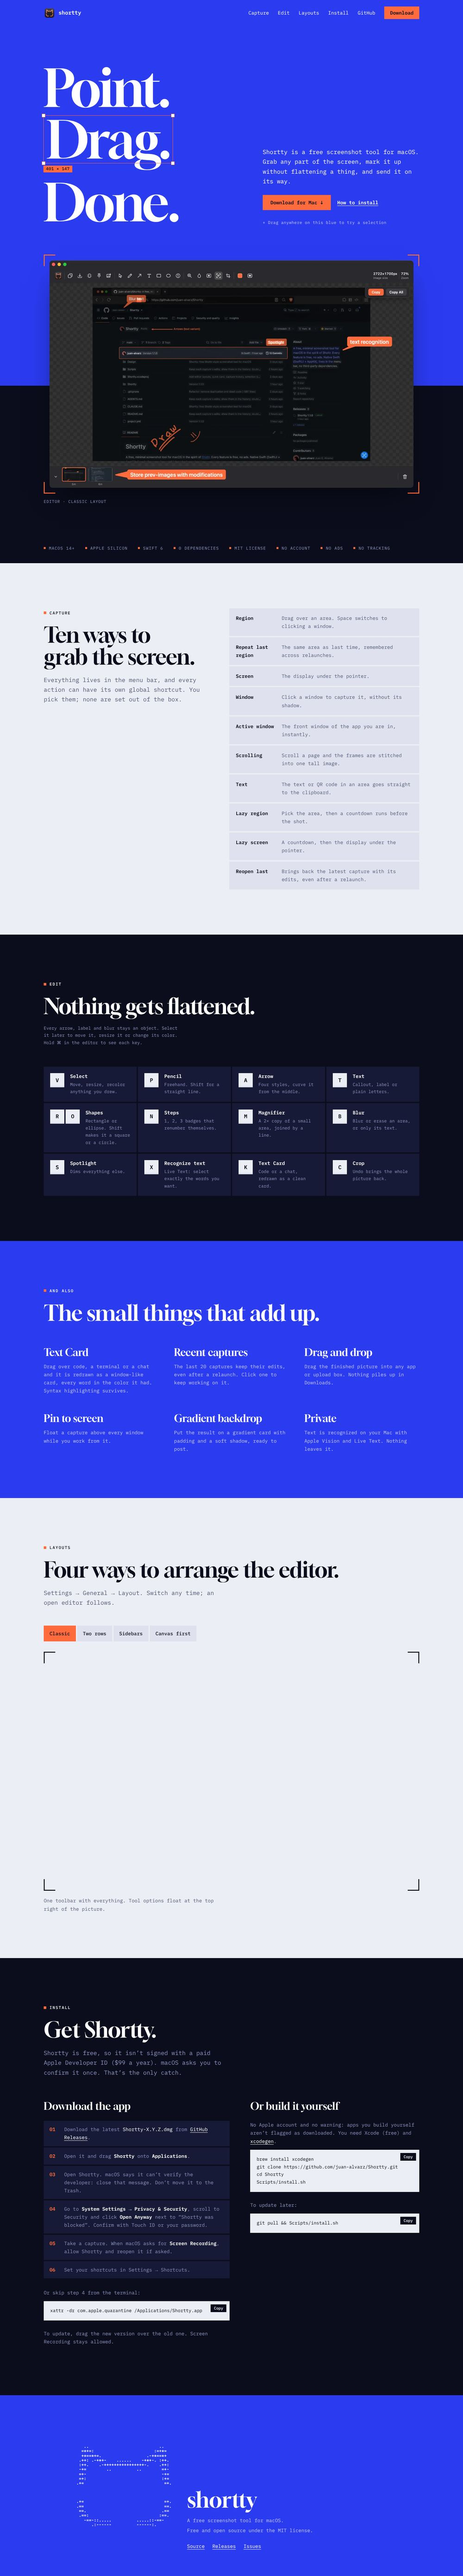
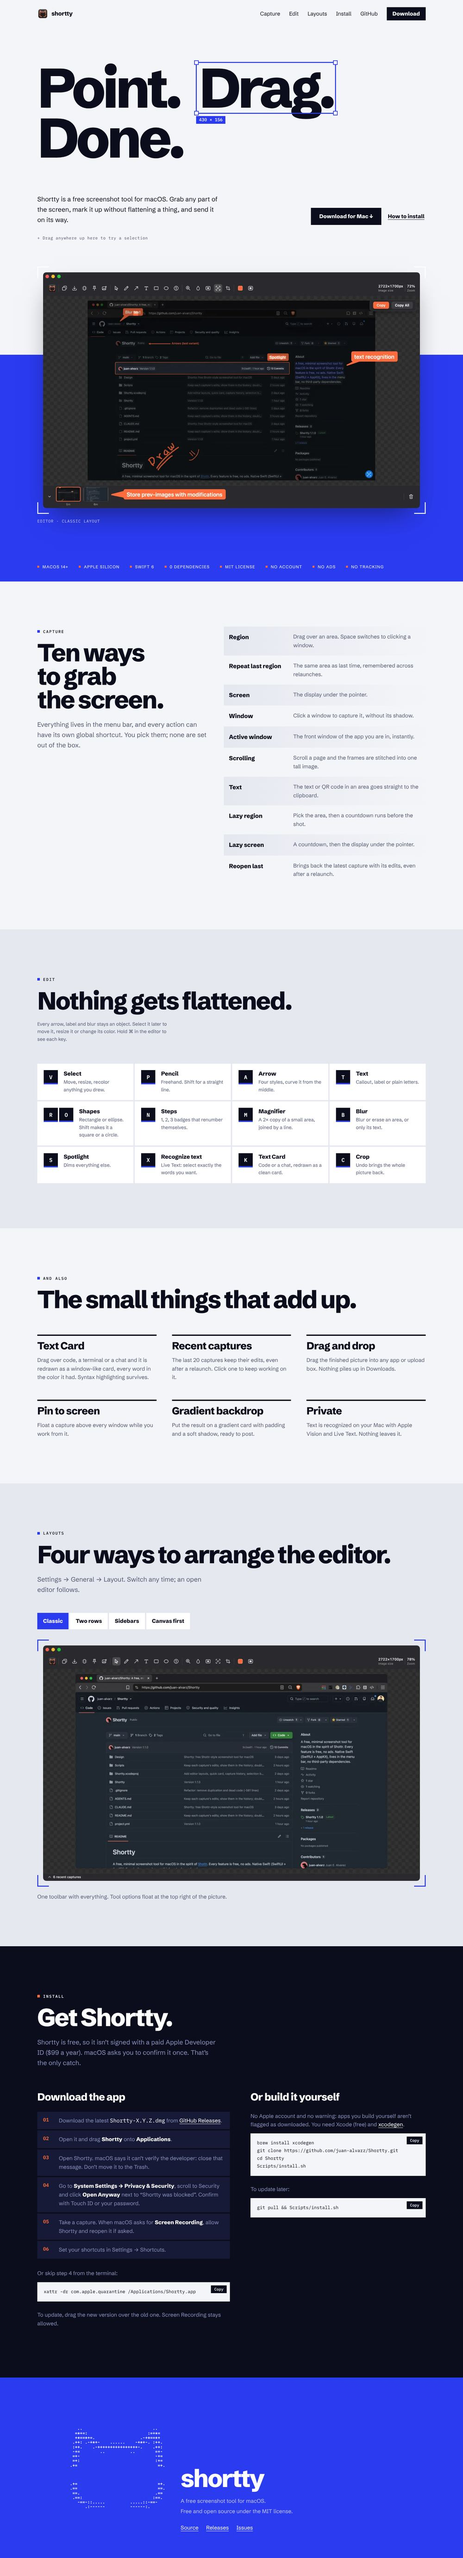
Version 02: Paper
Claude-Session: https://claude.ai/code/session_019xH8RKv4cB1Pgr3WMhaeZY

diff --git a/src/styles/global.css b/src/styles/global.css
@@ -1,39 +1,42 @@
 /*
-  Layout: the page is a capture surface. Full-width color bands (cobalt, paper, ink),
-  orange viewfinder corners and selection frames taken from the app icon and the
-  app's own selection UI. Sharp corners, no card borders.
+  Layout (version 02, paper): light-first. Paper carries the page, ink type in a heavy
+  grotesk, cobalt only as accent blocks. Selection frames and viewfinder corners in cobalt.
+  Sharp corners, no card borders.
 */
-@import '@fontsource/gloock/latin-400.css';
+@import '@fontsource/schibsted-grotesk/latin-400.css';
+@import '@fontsource/schibsted-grotesk/latin-800.css';
 @import '@fontsource/ibm-plex-mono/latin-400.css';
 @import '@fontsource/ibm-plex-mono/latin-500.css';
 @import '@fontsource/ibm-plex-mono/latin-600.css';
 
 :root {
-  color-scheme: dark;
+  color-scheme: light;
 
   /* Color */
   --cobalt: #2b3bf0;
   --cobalt-deep: #1f2bc4;
   --ink: #0b0d1c;
   --ink-raised: #161a36;
-  --paper: #eceef5;
-  --paper-raised: #dfe2ee;
+  --paper: #f4f5f8;
+  --paper-raised: #e6e8f0;
   --orange: #ff6b3d;
   --white: #ffffff;
+  --select: var(--cobalt);
   --on-cobalt-muted: #c6cbff;
   --on-ink-muted: #8f96c4;
-  --on-paper-muted: #525877;
+  --on-paper-muted: #50566f;
 
   /* Type */
-  --display: 'Gloock', 'Iowan Old Style', Georgia, serif;
+  --display: 'Schibsted Grotesk', 'Helvetica Neue', Arial, sans-serif;
+  --sans: 'Schibsted Grotesk', 'Helvetica Neue', Arial, sans-serif;
   --mono: 'IBM Plex Mono', ui-monospace, 'SF Mono', Menlo, monospace;
-  --step-0: 0.95rem;
-  --step-1: 1.15rem;
+  --step-0: 1.05rem;
+  --step-1: 1.25rem;
   --step-2: clamp(1.5rem, 3vw, 2rem);
-  --step-3: clamp(2.4rem, 6vw, 4.2rem);
-  --step-4: clamp(3.6rem, 13vw, 10rem);
+  --step-3: clamp(2.6rem, 6.5vw, 4.8rem);
+  --step-4: clamp(3.4rem, 12vw, 11rem);
 
-  --max: 1200px;
+  --max: 1240px;
 }
 
 * { box-sizing: border-box; }
@@ -42,22 +45,22 @@ html { scroll-behavior: smooth; }
 
 body {
   margin: 0;
-  background: var(--ink);
-  color: var(--white);
-  font: 400 var(--step-0)/1.65 var(--mono);
+  background: var(--paper);
+  color: var(--ink);
+  font: 400 var(--step-0)/1.6 var(--sans);
   -webkit-font-smoothing: antialiased;
 }
 
 img { max-width: 100%; height: auto; display: block; }
 a { color: inherit; text-underline-offset: 4px; text-decoration-thickness: 1px; }
-a:hover { color: var(--orange); }
-:focus-visible { outline: 2px solid var(--orange); outline-offset: 3px; }
+a:hover { color: var(--cobalt); }
+:focus-visible { outline: 2px solid var(--cobalt); outline-offset: 3px; }
 
-h1, h2, h3 { margin: 0; font-weight: 400; text-wrap: balance; }
-h2 { font: var(--step-3)/1 var(--display); letter-spacing: -0.02em; }
-h3 { font: 600 var(--step-0)/1.3 var(--mono); }
+h1, h2, h3 { margin: 0; font-weight: 800; text-wrap: balance; }
+h2 { font: 800 var(--step-3)/0.95 var(--display); letter-spacing: -0.045em; }
+h3 { font: 800 1.1rem/1.25 var(--sans); letter-spacing: -0.01em; }
 p { margin: 0; }
-strong { font-weight: 600; }
+strong { font-weight: 800; }
 
 code, pre { font-family: var(--mono); }
 
@@ -65,6 +68,7 @@ code, pre { font-family: var(--mono); }
 .band { padding-block: clamp(72px, 10vw, 140px); }
 .band.cobalt { background: var(--cobalt); color: var(--white); }
 .band.paper { background: var(--paper); color: var(--ink); }
+.band.raised { background: var(--paper-raised); color: var(--ink); }
 .band.ink { background: var(--ink); color: var(--white); }
 
 .wrap {
@@ -74,20 +78,21 @@ code, pre { font-family: var(--mono); }
   padding-right: max(16px, env(safe-area-inset-right, 0px));
 }
 
-/* Section eyebrow: an orange selection handle and a lowercase mono word. */
+/* Section eyebrow: a selection handle and a mono word. */
 .label {
   display: inline-flex;
   align-items: center;
   gap: 10px;
-  margin-bottom: 28px;
+  margin-bottom: 24px;
   font: 500 0.78rem/1 var(--mono);
   letter-spacing: 0.16em;
   text-transform: uppercase;
 }
-.label::before { content: ''; width: 8px; height: 8px; background: var(--orange); }
+.label::before { content: ''; width: 8px; height: 8px; background: var(--select); }
+.cobalt .label::before, .ink .label::before { background: var(--orange); }
 
-.lead { font-size: var(--step-1); max-width: 52ch; margin-top: 24px; }
-.paper .lead { color: var(--on-paper-muted); }
+.lead { font-size: var(--step-1); max-width: 46ch; margin-top: 24px; }
+.paper .lead, .raised .lead { color: var(--on-paper-muted); }
 .ink .lead { color: var(--on-ink-muted); }
 .cobalt .lead { color: var(--on-cobalt-muted); }
 
@@ -95,19 +100,19 @@ code, pre { font-family: var(--mono); }
   display: inline-flex;
   align-items: center;
   gap: 10px;
-  padding: 16px 24px;
-  font: 600 var(--step-0)/1 var(--mono);
+  padding: 18px 26px;
+  font: 800 var(--step-0)/1 var(--sans);
   text-decoration: none;
-  background: var(--orange);
-  color: var(--ink);
+  background: var(--ink);
+  color: var(--white);
 }
-.button:hover { background: var(--white); color: var(--ink); }
+.button:hover { background: var(--cobalt); color: var(--white); }
 .button.ghost { background: transparent; color: inherit; padding-inline: 4px; text-decoration: underline; }
-.button.ghost:hover { color: var(--orange); }
+.button.ghost:hover { color: var(--cobalt); }
 
-/* Orange viewfinder corners around whatever it wraps, like the app icon. */
+/* Viewfinder corners around whatever it wraps, like the app icon. */
 .viewfinder {
-  --c: var(--orange);
+  --c: var(--select);
   --len: clamp(18px, 3vw, 36px);
   --w: 3px;
   padding: clamp(10px, 1.6vw, 18px);
@@ -126,29 +131,29 @@ code, pre { font-family: var(--mono); }
 /* A selection rectangle with square handles and a size tag, like Shortty's own. */
 .selection {
   position: relative;
-  outline: 1px solid var(--orange);
+  outline: 2px solid var(--select);
 }
 .selection > .handle {
   position: absolute;
-  width: 9px;
-  height: 9px;
+  width: 10px;
+  height: 10px;
   background: var(--white);
-  outline: 1px solid var(--orange);
+  outline: 2px solid var(--select);
 }
-.selection > .handle:nth-of-type(1) { top: -5px; left: -5px; }
-.selection > .handle:nth-of-type(2) { top: -5px; right: -5px; }
-.selection > .handle:nth-of-type(3) { bottom: -5px; left: -5px; }
-.selection > .handle:nth-of-type(4) { bottom: -5px; right: -5px; }
+.selection > .handle:nth-of-type(1) { top: -6px; left: -6px; }
+.selection > .handle:nth-of-type(2) { top: -6px; right: -6px; }
+.selection > .handle:nth-of-type(3) { bottom: -6px; left: -6px; }
+.selection > .handle:nth-of-type(4) { bottom: -6px; right: -6px; }
 .selection > .size {
   position: absolute;
-  left: -1px;
-  top: calc(100% + 8px);
-  padding: 4px 8px;
+  left: -2px;
+  top: calc(100% + 10px);
+  padding: 5px 9px;
   white-space: nowrap;
   font: 500 0.75rem/1 var(--mono);
   letter-spacing: 0.04em;
-  background: var(--orange);
-  color: var(--ink);
+  background: var(--select);
+  color: var(--white);
 }
 
 @media (prefers-reduced-motion: reduce) {

diff --git a/src/i18n/en.ts b/src/i18n/en.ts
@@ -21,7 +21,7 @@ export const en = {
     lead: 'Shortty is a free screenshot tool for macOS. Grab any part of the screen, mark it up without flattening a thing, and send it on its way.',
     download: 'Download for Mac',
     install: 'How to install',
-    hint: 'Drag anywhere on this blue to try a selection',
+    hint: 'Drag anywhere up here to try a selection',
     tryIt: 'Now do it for real',
     shotAlt: 'The Shortty editor: blur, arrows, a spotlight, Live Text and the recent captures bar on a screenshot of a GitHub page',
     shotLabel: 'editor · classic layout',
